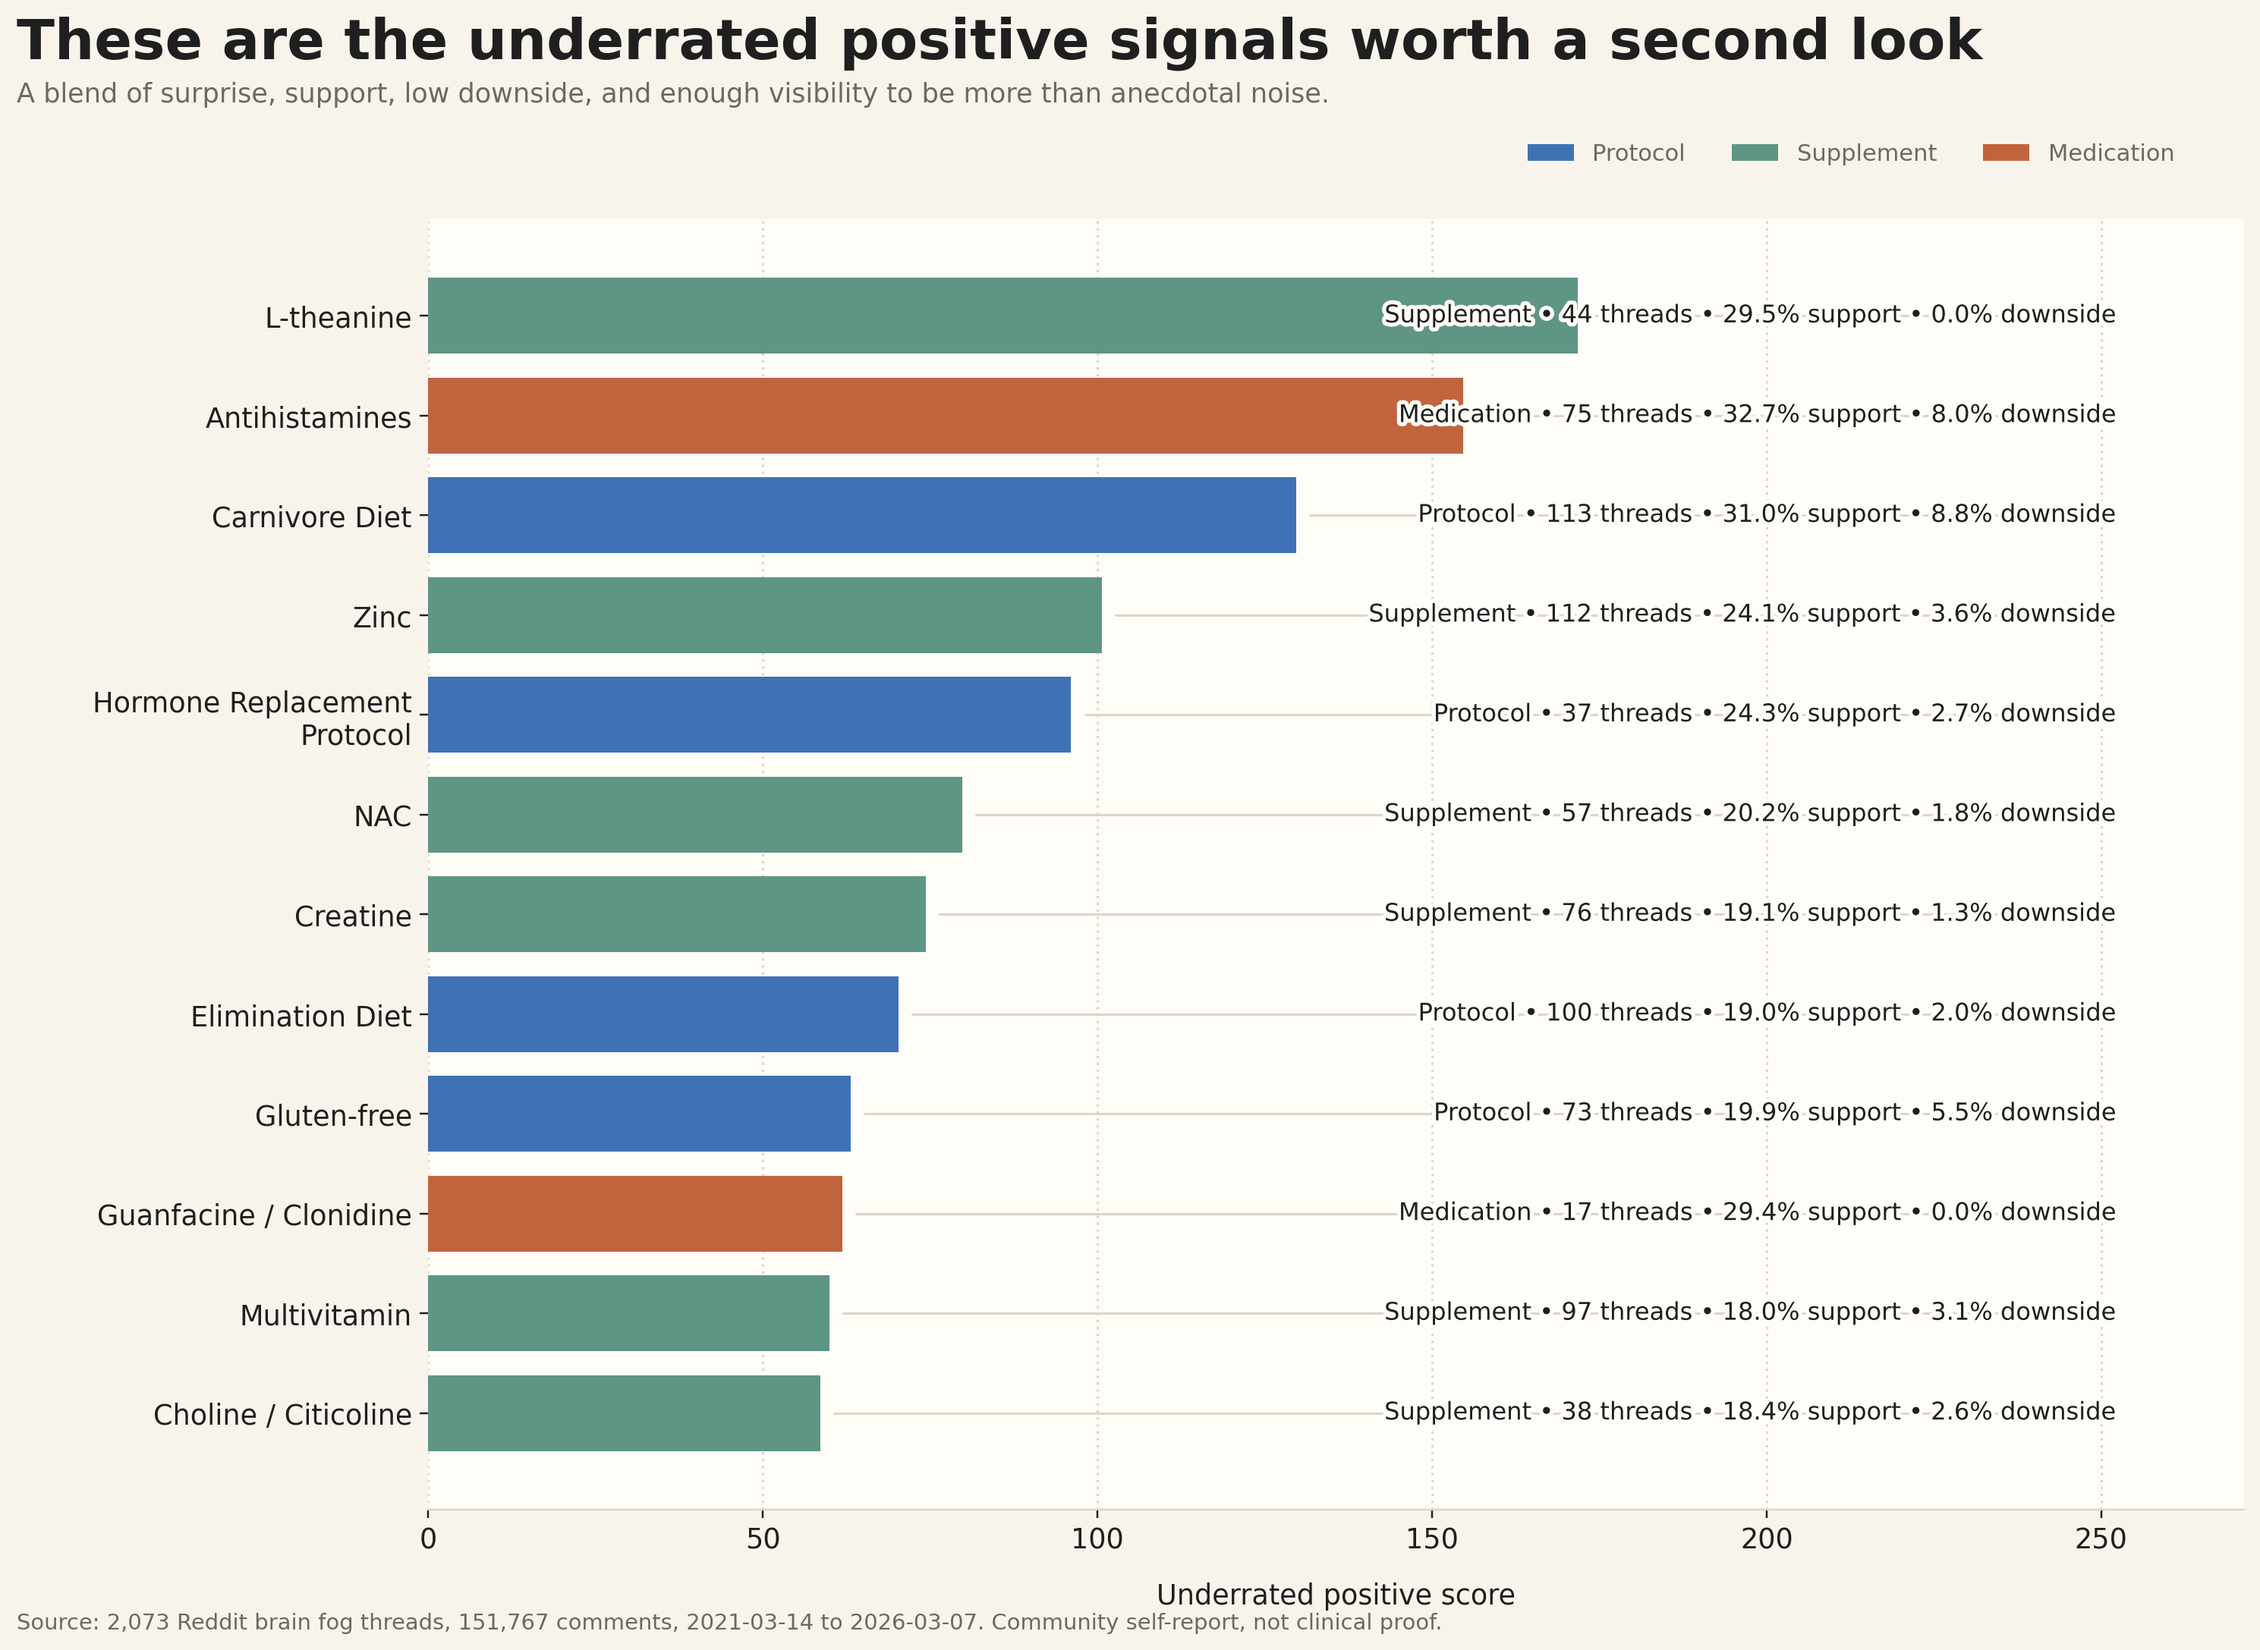
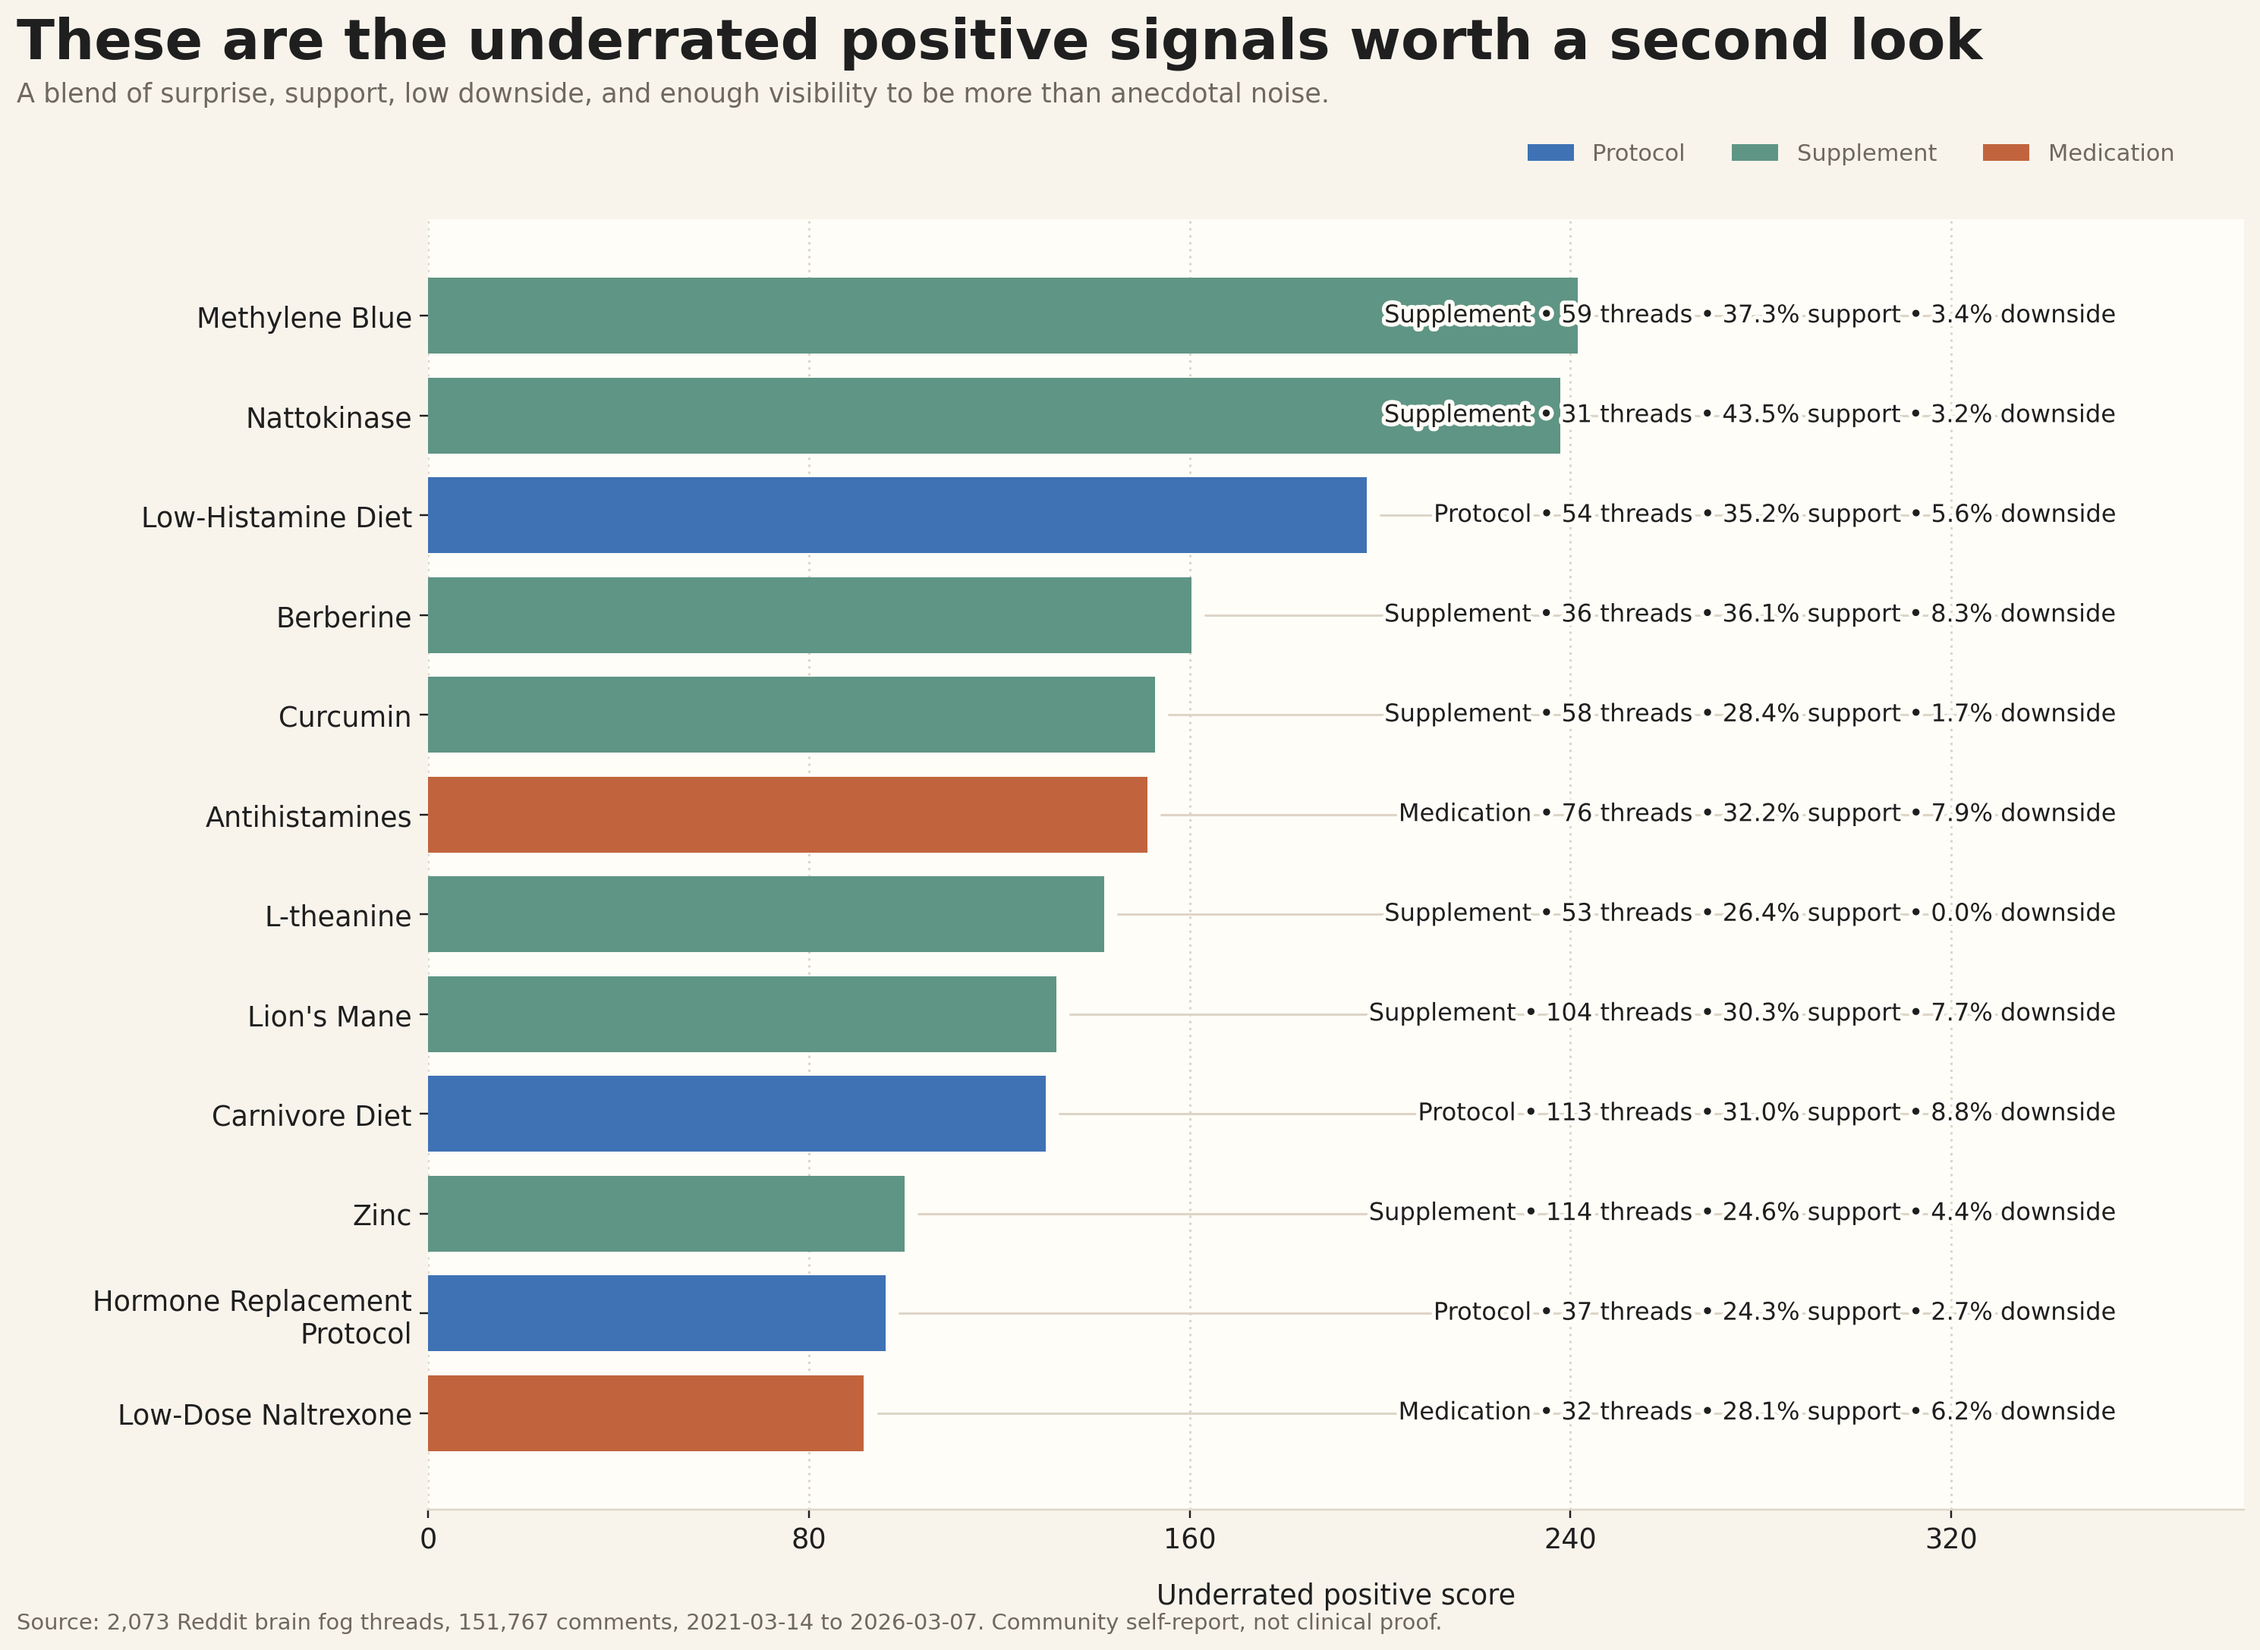
Refresh brain fog blog charts

diff --git a/src/content/blog/2026/what-2073-reddit-brain-fog-threads-reveal.md b/src/content/blog/2026/what-2073-reddit-brain-fog-threads-reveal.md
@@ -53,7 +53,7 @@ It is not just a cloud of random desperation posts. And it is not dominated main
 
 A second pattern is just as striking: the strongest signals are often less glamorous than people expect. Sleep hygiene, therapy, hydration, walking, magnesium, `B12`, iron, and basic nutrition changes show up over and over again. The center of gravity is much closer to regulation and correction than to miracle hacks.
 
-Then there is a third layer: some lower-visibility ideas appear stronger than their level of attention would suggest. Antihistamines, `CPAP / BiPAP`, `L-theanine`, hormone-related interventions, and a handful of quieter strategies stand out more than their visibility would predict.
+Then there is a third layer: some lower-visibility ideas appear stronger than their level of attention would suggest. Antihistamines still stand out, but the refreshed item set also pulls up `Methylene Blue`, `Nattokinase`, `Low-Histamine Diet`, `Curcumin`, `Berberine`, `B-Complex`, and `Thiamine / Vitamin B1` as quieter signals worth a closer look.
 
 This does not make them proven. It makes them interesting.
 
@@ -89,18 +89,7 @@ The hero chart above is the single best overview in the entire post.
 
 The x-axis shows the share of mentioning threads that describe an intervention negatively. The y-axis shows the share of mentioning threads that describe it positively. So the most attractive region is the upper left: more positive reports, fewer negative ones.
 
-That focus zone is where several clean signals cluster:
-
-1. `Yoga / Stretching`
-2. `Intermittent Fasting`
-3. `Sleep Hygiene / Sleep Schedule`
-4. `Meditation / Breathwork`
-5. `L-theanine`
-6. `Guanfacine / Clonidine`
-7. `Hydration / Electrolyte Protocol`
-8. `Cardio Training`
-9. `Hormone Replacement Protocol`
-10. `Zinc`
+That focus zone now includes several especially clean signals: `Nattokinase`, `Methylene Blue`, `Low-Histamine Diet`, `Yoga / Stretching`, `Guanfacine / Clonidine`, `Intermittent Fasting`, `Sleep Hygiene / Sleep Schedule`, `Meditation / Breathwork`, `Curcumin`, `L-theanine`, `Hydration / Electrolyte Protocol`, `Cardio Training`, `Zinc`, and `Hormone Replacement Protocol`.
 
 The chart also shows why some medications need a more careful reading. `Vyvanse`, `Ritalin / Methylphenidate`, `Adderall`, and `Bupropion / Wellbutrin` can sit fairly high on positive reports while also drifting rightward into a more divisive zone. In plain English: they can help, but they also generate more downside reports and more disagreement.
 
@@ -115,9 +104,9 @@ Some interventions look broadly clean. Others look powerful but unstable.
 
 The supplement chart is more conservative than the internet usually is.
 
-The top layer is familiar and surprisingly robust: `Magnesium`, `Vitamin B12`, `Iron / Ferritin`, and `Vitamin D`. Those are not trendy answers, but they recur again and again. Lower down, `Omega-3 / Fish Oil`, `Zinc`, `Creatine`, `L-theanine`, `NAC`, and `Choline / Citicoline` form a secondary tier.
+The top layer is still familiar and surprisingly robust: `Magnesium`, `Vitamin B12`, `Iron / Ferritin`, and `Vitamin D`. Those are not trendy answers, but they recur again and again. But the next tier is broader than the first pass suggested. `Omega-3 / Fish Oil` stays visible, while `Lion's Mane`, `Methylene Blue`, `B-Complex`, `Creatine`, `Curcumin`, `Potassium`, `Thiamine / Vitamin B1`, `Multivitamin`, `L-theanine`, and `Nattokinase` now register as meaningful supplement-level signals.
 
-One interpretation is that the supplement story is not mainly about flashy cognitive enhancers. It is often about correcting basic physiological problems first: deficiency, stress load, sleep quality, energy balance, and inflammation-adjacent issues.
+One interpretation is that the supplement story is still not mainly about flashy cognitive enhancers. Even many of the newer names map back to subtype stories: post-viral recovery, histamine, methylation or B-vitamin status, gut-directed protocols, inflammation, and energy metabolism.
 
 ## 5. Which medications stand out?
 
@@ -154,7 +143,7 @@ This is one of the strongest signs that brain fog is often lived as a systems pr
 
 This chart is where the analysis starts to get interesting.
 
-The standout names are `L-theanine`, `Antihistamines`, `Carnivore Diet`, and `Guanfacine / Clonidine`. These are not the most talked-about ideas overall, but they look stronger than their low visibility would predict.
+The standout names now are `Nattokinase`, `Berberine`, `Methylene Blue`, `Low-Histamine Diet`, `Curcumin`, `Antihistamines`, `L-theanine`, and `Lion's Mane`. These are not the most talked-about ideas overall, but they look stronger than their low visibility would predict.
 
 That makes them worth paying attention to, not because they are proven winners, but because low-visibility signals are exactly where communities sometimes notice something before it becomes mainstream.
 
@@ -167,7 +156,7 @@ That makes them worth paying attention to, not because they are proven winners, 
 
 The underrated-positive ranking broadens the hidden-gem idea.
 
-`L-theanine` remains the strongest low-visibility signal. `Antihistamines` stay unusually prominent. `Carnivore Diet`, `Zinc`, `Hormone Replacement Protocol`, `NAC`, `Creatine`, `Elimination Diet`, `Gluten-free`, `Guanfacine / Clonidine`, `Multivitamin`, and `Choline / Citicoline` all show up as interventions that seem better than their low status would suggest.
+`Methylene Blue` and `Nattokinase` now lead the underrated-positive ranking. `Low-Histamine Diet`, `Berberine`, `Curcumin`, `Antihistamines`, `L-theanine`, `Lion's Mane`, `Carnivore Diet`, `Zinc`, `Hormone Replacement Protocol`, and `Low-Dose Naltrexone` also show up as interventions that seem better than their low status would suggest.
 
 Even if not every individual signal survives future scrutiny, the pattern is still useful: many of the overlooked signals cluster around inflammation, diet tolerance, autonomic regulation, or deficiency correction rather than generic “brain boosters.”
 
@@ -180,7 +169,7 @@ Even if not every individual signal survives future scrutiny, the pattern is sti
 
 Once the filter becomes more demanding, the list gets narrower and more provocative.
 
-`L-theanine` still holds up. `Hormone Replacement Protocol` remains notable. `Guanfacine / Clonidine`, `Choline / Citicoline`, `Low-Dose Naltrexone`, and even `Dairy-free` appear as small but non-trivial signals.
+`Nattokinase` now tops the stricter filter. `Hormone Replacement Protocol` remains notable. `Guanfacine / Clonidine`, `Low-Dose Naltrexone`, `Red-Light Therapy`, `Digestive Enzymes`, `Choline / Citicoline`, and `Propranolol` also survive this narrower screen.
 
 These are exactly the kinds of findings that can generate useful next questions. Not “this definitely works,” but “why does this show up here, and for which subgroup?”
 
@@ -193,7 +182,7 @@ These are exactly the kinds of findings that can generate useful next questions.
 
 This is one of the most practical charts in the whole set.
 
-If you care about interventions that combine meaningful positive reports with a relatively small negative tail, `Meditation / Breathwork`, `Cardio Training`, `L-theanine`, `Zinc`, `Pacing / Energy Envelope`, `Elimination Diet`, `Hormone Replacement Protocol`, `Creatine`, `Multivitamin`, `NAC`, and `Choline / Citicoline` move up.
+If you care about interventions that combine meaningful positive reports with a relatively small negative tail, `Meditation / Breathwork` still looks strong, but `Methylene Blue`, `Nattokinase`, `Cardio Training`, `Curcumin`, `L-theanine`, `Pacing / Energy Envelope`, `B-Complex`, `Elimination Diet`, `Niacin / Vitamin B3`, `Creatine`, and `Hormone Replacement Protocol` also rise.
 
 This is not a prescription list, but it is a very useful triage list. It tells you where the Reddit conversation sees relatively good upside without as much complaint burden.
 
